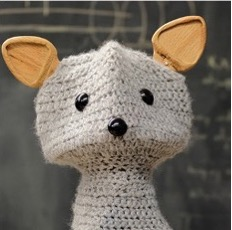
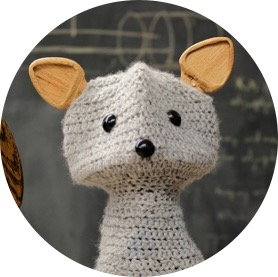
ray

diff --git a/index.html b/index.html
@@ -7,7 +7,7 @@
   <meta name="viewport" content="width=device-width, initial-scale=1">
   
   <link rel="stylesheet" type="text/css" href="stylesheet.css">
-  <link rel="icon" href="{{ site.baseurl }}/images/icon.png">
+  <link rel="icon" href="images/icon.png">
 </head>
 
 <body>
@@ -106,9 +106,43 @@
             </p>
           </td>
         </tr>
-      </tbody></table>
+        </tbody></table>
 
       <table style="width:100%;border:0px;border-spacing:0px;border-collapse:separate;margin-right:auto;margin-left:auto;"><tbody>
+
+          <tr onmouseout="ray_stop()" onmouseover="ray_start()">
+            <td style="padding:20px;width:25%;vertical-align:middle">
+              <div class="one">
+                <div class="two" id='ray_image'>
+                <img src='images/ray_after.png' width="160"></div>
+                <img src='images/ray_before.png' width="160">
+              </div>
+              <script type="text/javascript">
+                function ray_start() {
+                  document.getElementById('ray_image').style.opacity = "1";
+                }
+
+                function ray_stop() {
+                  document.getElementById('ray_image').style.opacity = "0";
+                }
+                ray_stop()
+              </script>
+            </td>
+            <td style="padding:20px;width:75%;vertical-align:middle">              
+                <papertitle>Fractissimo: A Fractal Music Visualizer</papertitle>
+              </a>
+              <br>
+              <em>CS 5625 Interactive Computer Graphics</em>, 2021
+              <br>
+              <a href="https://www.cs.cornell.edu/courses/cs5625/2020sp/">Description</a>
+              <p></p>
+              <p> A C++ based Ray Tracer and Rasterizer that include camera system, point, ambient and area light, etc.  </p>
+              <p> A C++ based Rasterizer that implemented both forward and deferred shading, sun-sky model with bloom effect as well as ambient occlusion for light source.</p>
+            
+            </td>
+          </tr>   
+
+
           <tr onmouseout="frac_stop()" onmouseover="frac_start()">
             <td style="padding:20px;width:25%;vertical-align:middle">
               <div class="one">
@@ -203,7 +237,7 @@
               <a href="https://www.hybridbody.human.cornell.edu/wovenskin">Project Page</a>
               <p></p>
               <p> Worked on the electronics and software control, detecting user gestures and hand movements as well as tempreture changes of WovenSkin, a fabrication process to create customized functional devices that can be attached directly on human skin.</p>
-           </td>
+            </td>
           </tr>   
 
           <tr onmouseout="visual_stop()" onmouseover="visual_start()">
@@ -238,7 +272,7 @@
               <a href="https://youtu.be/SxZjuxQ1pQA">YouTube</a>
               <p></p>
               <p>A device dedicated for everyone with or without a perfect hearing to create and enjoy music in various colorful ways.</p>
-           </td>
+            </td>
           </tr>
 
 
